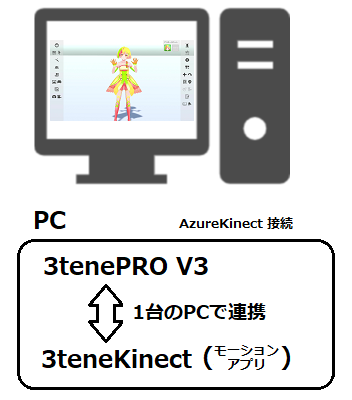
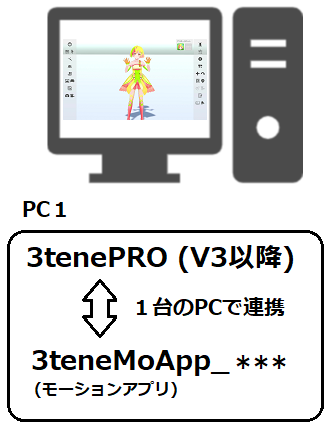
モーションアプリの表記を修正。

diff --git a/MoAppAzureKinect.md b/MoAppAzureKinect.md
@@ -36,7 +36,7 @@
 >・現在のバージョンは複数人の認識に対応していません。（必ず１人だけ写るようにしてください。）
 
 
-### 3teneKinect について
+### 3teneMoApp_Kinect について
 
 >※<font color="Red">初代 Kinect および Kinect V2 には対応していません。</font>
 
@@ -66,22 +66,22 @@
 ### Azure Kinect の操作手順
 
 >1. 3tene を起動する。
->2. 3teneKinect を起動する。
->3. 3teneKinect で Azure Kinect の制御を開始する。
+>2. 3teneMoApp_Kinect を起動する。
+>3. 3teneMoApp_Kinect で Azure Kinect の制御を開始する。
 >![画像](image/AzureKinect_1.png "")
 >4. 3tene でボディトラッキングを 3tene モーションアプリ に設定します。
 >![画像](image/AzureKinect_2.png "")
 >5. 3tene のトラッキングを開始します。
 >![画像](image/AzureKinect_3.png "")
 
->必ず 3teneKinect の制御を開始した後に 3tene のトラッキング開始を行ってください。
+>必ず 3teneMoApp_Kinect の制御を開始した後に 3tene のトラッキング開始を行ってください。
 
 
 ### 3teneKinect の開始に失敗する場合
 
 >下記の内容を再度確認してください。
 >・Kinect が USB 3.0 以降の端子に接続されている。（主に青い USB 端子）
->・3teneKinect が日本語を含んだパスで実行されてないか。
+>・3teneMoApp_Kinect が日本語を含んだパスで実行されてないか。
 
 >特に問題がみつからない場合は Windows の環境変数に設定を追加する事で
 >Kinect からのログ出力を保存し、原因を解析する事が可能になります。
@@ -110,7 +110,7 @@
 >ただ、<font color="Red">Kinect アプリを起動中に環境変数の変更を行ってもログの出力はされません</font>ので
 >もし起動している場合は変更後に一度アプリを閉じて再び開くか、それでも出力されない場合は PC を再起動してください。
 
-### 3teneKinect の設定項目
+### 3teneMoApp_Kinect の設定項目
 
 >![画像](image/AzureKinect_4.jpg "")
 
@@ -157,14 +157,14 @@
 
 ### PCを2台以上の構成で扱う
 
->3tene(PRO, STUDIO) と 3teneKinect を別々のPCで動かして利用する事が可能です。
+>3tene(PRO, STUDIO) と 3teneMoApp_Kinect を別々のPCで動かして利用する事が可能です。
 >Azure Kinect 用の高性能 PC を別途用意する事で負荷分散も行えます。
 ><font color="Red">※β版で分散機能は提供されません。</font>
 
 
 >![画像](image/kinect_howto_2.png "")
 
->3teneKinect の IP アドレスを確認して 3tene 側の AzureKinect の IPアドレスに設定します。
+>3teneMoApp_Kinect の IP アドレスを確認して 3tene 側の AzureKinect の IPアドレスに設定します。
 >※１台構成に戻す場合は IPアドレスを 127.0.0.1 に設定してください。
 
 >![画像](image/AzureKinect_5.png "")
@@ -178,7 +178,7 @@
 >速やかにファイアウォールの設定を戻してください。
 ><font color="Blue">通常使用ではセキュリティソフトに「3teneKinect をブロックしない設定」を追加してください。</font>
 
->後は１台構成の場合と同じ手順で 3teneKinect の制御を開始した後に、
+>後は１台構成の場合と同じ手順で 3teneMoApp_Kinect の制御を開始した後に、
 >3tene のトラッキングを開始します。
 
 

diff --git a/MoAppMocopi.md b/MoAppMocopi.md
@@ -24,25 +24,25 @@
 >1. <font color="blue">スマートフォンに専用アプリをインストール</font>し、mocopi が動作するのを確認する。
 >専用アプリでの動作については mocopi 公式の<a href="https://www.youtube.com/watch?v=g0d-x0l2HtA" target="_blank">動画</a>などを参照して設定をしてください。
 
->2. 3teneMocopi をインストールした<font color="blue">PCとスマートフォンをWiFi接続</font>して動作するのを確認する。
+>2. 3teneMoApp_Mocopi をインストールした<font color="blue">PCとスマートフォンをWiFi接続</font>して動作するのを確認する。
 ><font color="red">※セキュリティソフトによってブロックされ、通信できない場合があります。
 >その場合にはファイルウォールの確認をお願いします。</font>
 >[セキュリティソフトについて](#AboutSecuritySoft.md)
 
 
->3teneMocopi の<font color="blue">設定「情報」に表示されている IP アドレス</font>を mocopi 専用アプリに入力します。
+>3teneMoApp_Mocopi の<font color="blue">設定「情報」に表示されている IP アドレス</font>を mocopi 専用アプリに入力します。
 ![画像](image/mocopi_02.png "")
 
 >専用アプリの操作 → 設定 → PC接続設定 → IPアドレス入力 → OK
 ![画像](image/mocopi_03.png "")
-><font color="blue">3teneMocopi のトラッキングを開始した状態で専用アプリから送信</font>を行うと
+><font color="blue">3teneMoApp_Mocopi のトラッキングを開始した状態で専用アプリから送信</font>を行うと
 >アバターが動作するようになります。
 
 >専用アプリの操作手順
 > → 上部の「モーション」をタップ → <font color="blue">下部の中央にある送信アイコン</font>をタップ
 ![画像](image/mocopi_04.png "")
 
->3. <font color="blue">3tene と 3teneMocopi を接続</font>して動作するのを確認する。
+>3. <font color="blue">3tene と 3teneMoApp_Mocopi を接続</font>して動作するのを確認する。
 >モーションアプリの動作確認後に 3tene と接続を行って使用します。
 >[モーションアプリについて](#MotionApp.md)
 

diff --git a/MotionApp.md b/MotionApp.md
@@ -1,16 +1,16 @@
 ## モーションアプリ連携について
 
->3tene を拡張する 3teneMotionApp システムを搭載。
+>3tene を拡張する <font color="Blue">3teneMotionApp</font> システムを搭載。
 >3tene 本体の更新を行わずに新たな機器追加が可能になりました。
 
->3tene 本体とモーションアプリを連携する事でトラッキングを可能にします。
+><font color="Blue">3tene 本体とモーションアプリを連携する</font>事でトラッキングを可能にします。
 >![画像](image/MotionApp_1.png "")
 
->3tene V3 シリーズでは既存の AzureKinect だけでなく、
+>3tene V3 シリーズでは既存の Azure Kinect だけでなく、
 >LeapMotion、VR、Nuitrack も 3teneMotionApp として追加されました。
 
 >※3tene 本体から VR 機能を切り離したので SteamVR は起動しなくなりました。
->　（3teneMotionApp で VR を使用する場合は SteamVR が起動します。）
+>　（モーションアプリ連携で VR を使用する場合は SteamVR が起動します。）
 
 >また、PC 1台に対して1台しか接続できない機器でも
 >複数の PC を用意してローカルネットワークで繋ぐことで

diff --git a/MoAppBt_iPhone.md b/MoAppBt_iPhone.md
@@ -16,7 +16,7 @@
 ><a href="https://apps.apple.com/au/app/3tenebt/id1593169356" target="_blank"><img src="image/App_Store.png"/></a>
 
 >上記リンクまたは App Store で 3teneBT を検索してインストールをしてください。
->3tene V3 モーションアプリ(3teneBTforPC)との組み合わせ</font>で動作します。
+>3tene V3 モーションアプリ(3teneMoApp_BTforPC)との組み合わせ</font>で動作します。
 
 
 >モーションアプリの動作確認後に 3tene と接続を行って使用します。
